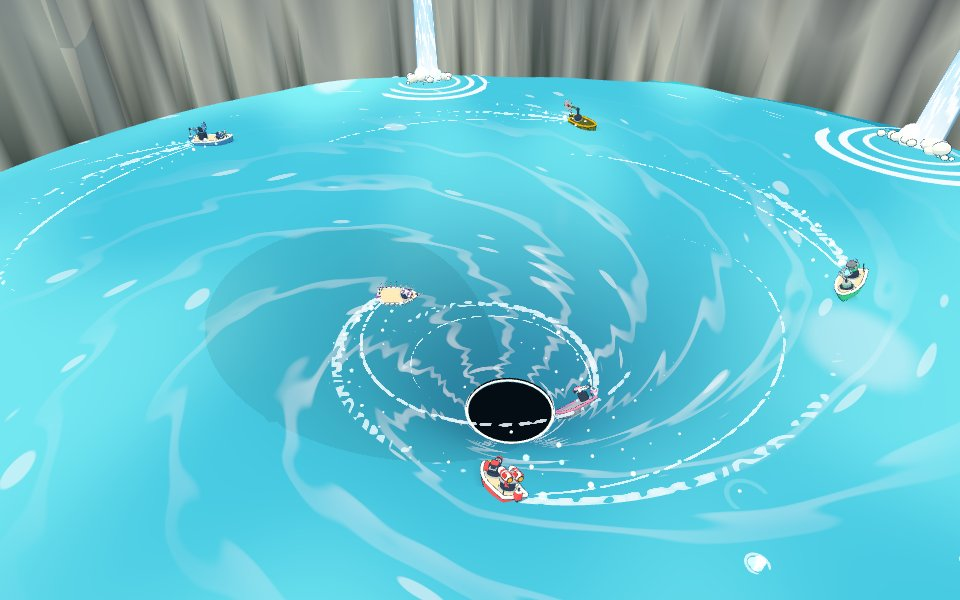
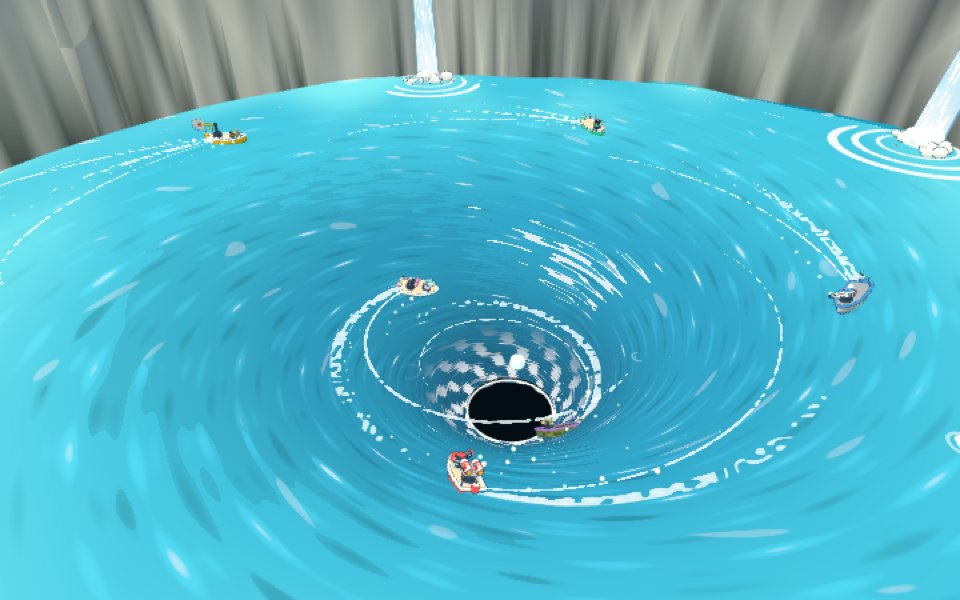
Give the whirlpool flowing current streaks, banded light, sun glints and churning foam at the throat, keep the camera above the funnel, and swap the vine rods for moss drapes

diff --git a/src/whirlpool.js b/src/whirlpool.js
@@ -120,8 +120,10 @@ export function whirlpoolSite(track, edgeAt, faceAt) {
 const FUNNEL_VERT = /* glsl */ `
   uniform float uTime;
   uniform vec2 uCenter;
+  uniform float uRadius;
   attribute float aAmp;
   varying vec2 vLocal;
+  varying vec3 vWorld;
   varying float vDepth;
   varying float vWave;
   varying vec3 vNormalW;
@@ -133,8 +135,14 @@ const FUNNEL_VERT = /* glsl */ `
     float b = p.z * 0.08 - uTime * 1.1;
     float c = (p.x + p.z) * 0.13 + uTime * 2.0;
     vWave = 0.45 * sin(a) + 0.35 * sin(b) + 0.2 * sin(c);
-    p.y += vWave * aAmp;
-    vLocal = p.xz - uCenter;
+    vec2 local = p.xz - uCenter;
+    float r = max(length(local), 1.0);
+    float k = clamp(1.0 - r / uRadius, 0.0, 1.0);
+    float theta = atan(local.y, local.x);
+    float swell = sin(9.0 * theta - log(r) * 12.0 - uTime * (2.0 + 5.0 * k)) * 0.5 + sin(14.0 * theta + r * 0.35 - uTime * 3.0) * 0.3;
+    p.y += vWave * aAmp + swell * k * 0.5;
+    vLocal = local;
+    vWorld = p;
     vDepth = position.y;
     vNormalW = normalize(normal);
     vec4 mvPosition = modelViewMatrix * vec4(p, 1.0);
@@ -147,9 +155,11 @@ const FUNNEL_FRAG = /* glsl */ `
   uniform float uTime;
   uniform float uRadius;
   uniform float uDepth;
+  uniform float uDrain;
   uniform vec3 uSunDir;
   uniform vec2 uCenterW;
   varying vec2 vLocal;
+  varying vec3 vWorld;
   varying float vDepth;
   varying float vWave;
   varying vec3 vNormalW;
@@ -161,6 +171,11 @@ const FUNNEL_FRAG = /* glsl */ `
     float warpB = sin(p.x * 1.9 - t * 0.7) * 1.4;
     return sin(p.x * 2.6 + warpA + t * 0.6) * sin(p.y * 2.6 + warpB - t * 0.5);
   }
+  float streaks(float th, float r, float t) {
+    return sin(13.0 * th + r * 0.55 + t * 0.7) * 0.45
+      + sin(21.0 * th - r * 0.8 + 1.7 - t * 0.4) * 0.3
+      + sin(34.0 * th + r * 1.3 + 4.1 + t * 1.1) * 0.25;
+  }
   vec2 spin(vec2 v, float a) {
     float c = cos(a);
     float s = sin(a);
@@ -169,29 +184,47 @@ const FUNNEL_FRAG = /* glsl */ `
   void main() {
     float r = max(length(vLocal), 1.0);
     float k = clamp(1.0 - r / uRadius, 0.0, 1.0);
-    float omega = (22.0 + 42.0 * k) / r * smoothstep(uRadius + 2.0, uRadius - 15.0, r);
-    float flowA = fract(uTime * 0.4);
-    float flowB = fract(uTime * 0.4 + 0.5);
-    vec2 qa = spin(vLocal, -omega * flowA * 2.5);
-    vec2 qb = spin(vLocal, -omega * flowB * 2.5);
-    float wa = 1.0 - abs(2.0 * flowA - 1.0);
-    float wb = 1.0 - wa;
-    float rip = ripple(qa + uCenterW, uTime) * wa + ripple(qb + uCenterW, uTime) * wb;
     float theta = atan(vLocal.y, vLocal.x);
-    float lanes = sin(theta * 9.0 - log(r) * 11.0 - uTime * (1.5 + 6.0 * k) + rip * 1.5) * 0.5 + 0.5;
+    float omega = (22.0 + 42.0 * k) / r * smoothstep(uRadius + 2.0, uRadius - 15.0, r);
+    float pa = fract(uTime * 0.3);
+    float pb = fract(uTime * 0.3 + 0.5);
+    float wa = 1.0 - abs(2.0 * pa - 1.0);
+    float wb = 1.0 - wa;
+    float st = streaks(theta - omega * pa * 3.3, r, uTime) * wa + streaks(theta - omega * pb * 3.3, r, uTime) * wb;
+    float rip = ripple(spin(vLocal, -omega * pa * 3.3) + uCenterW, uTime) * wa + ripple(spin(vLocal, -omega * pb * 3.3) + uCenterW, uTime) * wb;
+    float flow = smoothstep(0.04, 0.45, k);
 
-    float h = clamp(vWave * 0.5 + 0.5, 0.0, 1.0);
-    vec3 deep = vec3(0.059, 0.561, 0.722);
     vec3 shallow = vec3(0.208, 0.839, 0.878);
-    vec3 abyss = vec3(0.02, 0.2, 0.34);
+    vec3 deep = vec3(0.059, 0.561, 0.722);
+    vec3 dusk = vec3(0.03, 0.36, 0.55);
+    vec3 abyss = vec3(0.015, 0.13, 0.24);
     vec3 foam = vec3(0.957, 0.984, 1.0);
-    vec3 color = mix(deep, shallow, smoothstep(0.25, 0.85, h) * (1.0 - k));
-    color = mix(color, abyss, smoothstep(-6.0, -uDepth, vDepth) * 0.85);
-    float light = dot(vNormalW, normalize(uSunDir));
-    color *= mix(0.9, 1.06, step(0.62, light));
-    color = mix(color, foam, smoothstep(0.8, 0.86, rip) * 0.45);
-    color = mix(color, foam, smoothstep(0.9, 0.98, lanes) * smoothstep(0.1, 0.7, k) * (0.25 + 0.3 * k) * (0.6 + 0.4 * rip));
-    color = mix(color, foam, smoothstep(0.9, 0.96, h) * 0.6 * (1.0 - k));
+    float h = clamp(vWave * 0.5 + 0.5, 0.0, 1.0);
+    vec3 color = mix(deep, shallow, smoothstep(0.25, 0.85, h) * (1.0 - flow));
+    float depth = clamp(-vDepth / uDepth, 0.0, 1.0);
+    color = mix(color, dusk, smoothstep(0.05, 0.45, depth));
+    color = mix(color, abyss, smoothstep(0.45, 1.0, depth));
+
+    vec3 tangent = vec3(-sin(theta), 0.0, cos(theta));
+    vec3 n = normalize(vNormalW + tangent * st * 0.35 * flow);
+    vec3 sun = normalize(uSunDir);
+    float lambert = dot(n, sun);
+    color *= mix(mix(0.72, 0.92, step(0.3, lambert)), 1.08, step(0.7, lambert));
+
+    color = mix(color, color * 1.35 + vec3(0.02, 0.05, 0.06), smoothstep(0.25, 0.7, st) * 0.45 * flow);
+    color *= 1.0 - smoothstep(-0.35, -0.85, st) * 0.22 * flow;
+    color = mix(color, foam, smoothstep(0.72, 0.86, st) * (0.25 + 0.5 * k) * flow);
+    color = mix(color, foam, smoothstep(0.8, 0.86, rip) * 0.45 * (1.0 - flow * 0.6));
+    color = mix(color, foam, smoothstep(0.9, 0.96, h) * 0.7 * (1.0 - flow));
+
+    float churn = sin(theta * 11.0 - uTime * 8.0 + r * 1.4) * 0.5 + sin(theta * 17.0 - uTime * 11.0 - r * 0.9 + 2.0) * 0.3 + st * 0.4;
+    float throat = 1.0 - smoothstep(uDrain + 1.0, uDrain + 10.0, r);
+    color = mix(color, foam, throat * smoothstep(0.05, 0.45, churn) * 0.8);
+
+    vec3 view = normalize(cameraPosition - vWorld);
+    float glint = pow(max(dot(reflect(-sun, n), view), 0.0), 48.0);
+    color = mix(color, foam, step(0.55, glint) * 0.6 * (0.3 + flow));
+
     gl_FragColor = vec4(color, 1.0);
     #include <colorspace_fragment>
     #include <fog_fragment>
@@ -273,7 +306,7 @@ export class Whirlpool {
     this.material = new THREE.ShaderMaterial({
       uniforms: THREE.UniformsUtils.merge([
         THREE.UniformsLib.fog,
-        { uTime: { value: 0 }, uCenter: { value: new THREE.Vector2(center.x, center.z) }, uRadius: { value: radius }, uDepth: { value: DEPTH }, uCenterW: { value: new THREE.Vector2(center.x, center.z) }, uSunDir: { value: new THREE.Vector3(0.4, 1, 0.3) } },
+        { uTime: { value: 0 }, uCenter: { value: new THREE.Vector2(center.x, center.z) }, uRadius: { value: radius }, uDepth: { value: DEPTH }, uDrain: { value: DRAIN }, uCenterW: { value: new THREE.Vector2(center.x, center.z) }, uSunDir: { value: new THREE.Vector3(0.4, 1, 0.3) } },
       ]),
       vertexShader: FUNNEL_VERT,
       fragmentShader: FUNNEL_FRAG,

diff --git a/src/world.js b/src/world.js
@@ -29,7 +29,6 @@ export const COLORS = {
   rockland: 0xffffff,
   caveRock: 0x262b33,
   stalactite: 0x3a414c,
-  vine: 0x2f7d34,
   stripeRed: 0xff4141,
   stripeWhite: 0xf6f8ff,
   roof: 0x0e2a47,
@@ -1438,12 +1437,6 @@ function addCaveArch(batch, site) {
     const g = new THREE.BufferGeometry();
     g.setAttribute('position', new THREE.Float32BufferAttribute(twoSided(panel), 3));
     batch.add('rockland', paintPillar(g, 1e9));
-    if (!mouth) continue;
-    for (let j = 1; j < ARCH_SIDES; j++) {
-      const [x, y, z] = inner[j];
-      const len = 3 + Math.abs(Math.sin(j * 2.3)) * 8;
-      batch.add('vine', CYLINDER, mat(x - frame(k).fx * 0.8, y + 1 - len / 2, z - frame(k).fz * 0.8, 0.2, len, 0.2));
-    }
   }
 }
 
@@ -1585,15 +1578,12 @@ function addGorge(batch, site, rand) {
         batch.add(rand() < 0.5 ? 'moss' : 'mossDark', LOW_SPHERE, mat(x, y + sz * 0.3, z, sz * 1.3, sz * 0.8, sz));
       }
       if (rand() < 0.6) {
-        const lip = f.half + CAVE_WALL * 0.7;
+        const lip = f.half + CAVE_WALL * 0.82;
         const vx = f.x + f.nx * side * lip;
         const vz = f.z + f.nz * side * lip;
-        const top = CARVE_FLOOR + 0.7 * 90 - 2;
-        for (let n = 0; n < 3; n++) {
-          const len = 10 + rand() * 30;
-          const ox = (rand() - 0.5) * 4;
-          batch.add('vine', CYLINDER, mat(vx + ox * f.nz, Math.min(top, clifftop(vx, vz)) - len / 2, vz - ox * f.nx, 0.2, len, 0.2));
-        }
+        const y = Math.min(clifftop(vx, vz), CARVE_FLOOR + 0.82 * 90);
+        const sz = 2.2 + rand() * 1.6;
+        batch.add(rand() < 0.5 ? 'moss' : 'jungle', LOW_SPHERE, mat(vx, y - sz * 0.2, vz, sz * 1.5, sz, sz * 1.5));
       }
     }
   });
@@ -1631,11 +1621,14 @@ function addCliffDressing(batch, site, rand) {
       batch.add(rand() < 0.5 ? 'moss' : 'mossDark', LOW_SPHERE, mat(x, y + sz * 0.25, edge + ledge + faceSway(x, y), sz * 1.4, sz * 0.7, sz));
     }
     if (rand() < 0.55) {
-      const zLip = edge + 0.4 + j * 3.2 + 0.9 + faceSway(x, lip) - 0.5;
+      const key = ['moss', 'mossDark', 'jungle'][Math.floor(rand() * 3)];
+      let size = 1.6 + rand() * 1.2;
+      let y = lip + size * 0.3;
       for (let n = 0; n < 2 + Math.floor(rand() * 3); n++) {
-        const len = 5 + rand() * 12;
-        const ox = x + (rand() - 0.5) * 5;
-        batch.add('vine', CYLINDER, mat(ox, lip - len / 2, zLip - rand() * 0.4, 0.18, len, 0.18));
+        const ox = x + (rand() - 0.5) * 1.6;
+        batch.add(key, LOW_SPHERE, mat(ox, y, cliffFace(ox, y) - size * 0.35, size * 1.25, size, size * 0.65));
+        y -= size * 1.15;
+        size *= 0.78;
       }
     }
     if (rand() < 0.45) {

diff --git a/src/director.js b/src/director.js
@@ -94,6 +94,8 @@ export class Director {
       fov = 60 + speedFrac * 10;
     }
     this.snap = false;
+    const pool = race.track.whirlpool;
+    if (pool && Math.hypot(this.pos.x - pool.center.x, this.pos.z - pool.center.z) < pool.radius + 4) this.pos.y = Math.max(this.pos.y, waveHeight(this.pos.x, this.pos.z, race.time) + 2.2);
 
     this.camera.position.copy(this.pos);
     if (this.shake > 0) {
